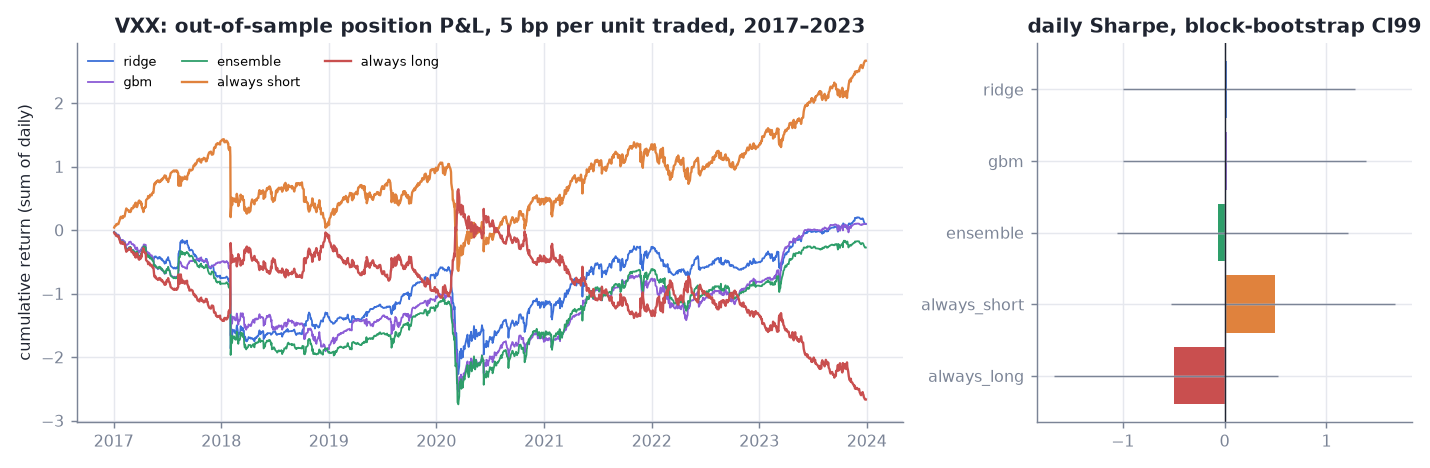
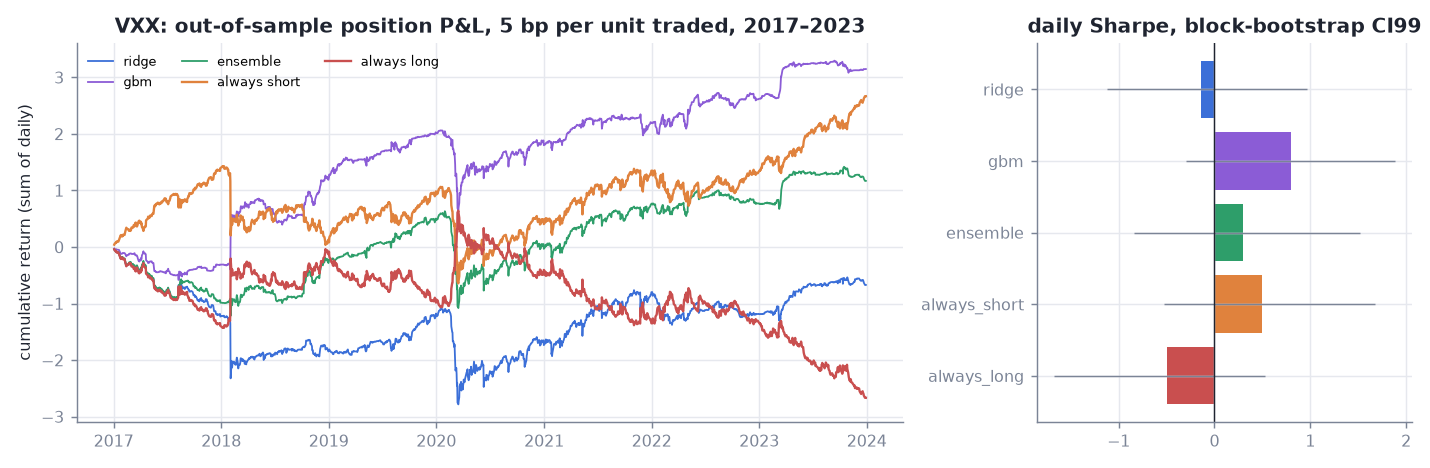
Deterministic reductions; concentration metrics; gallery: the regime question
- group_by returns groups in arbitrary order: IC means, selection scores and in-sample IC now sum in date order
  (a rerun of slalom's evaluation differed in the 15th digit)
- daily_stats: top5_share and sharpe_without_top5 (the few-observations red flag)
- gallery: VXX regime figure and section (futures-contango rule vs always short vs 1-day LightGBM)
- decisions: identity holes closed, ledger, rule learner, twins

diff --git a/examples/gallery/build.py b/examples/gallery/build.py
@@ -242,7 +242,46 @@ def vxx(store: ArtifactStore, home: Path) -> dict[str, Any]:
         "books": summary,
         "sweep": cells,
         "index_days": idx.height,
+        "regime": _vxx_regime(store, recs),
     }
+
+
+def _vxx_regime(store: ArtifactStore, recs: list[dict[str, Any]]) -> dict[str, Any]:
+    """Always short against the futures-contango rule and LightGBM on a 1-day target (the v4 evaluation)."""
+
+    def latest(h: int) -> dict[str, Any] | None:
+        for r in reversed(recs):
+            ev = r.get("results", {}).get("evaluate")
+            if ev and r["meta"].get("params", {}).get("horizon") == h:
+                out = store.get(ev["output"])
+                if "short_if_roll_yield_gt_0.0%" in out:
+                    return out
+        return None
+
+    e5, e1 = latest(5), latest(1)
+    if e5 is None or e1 is None:
+        return {}
+    lines = {
+        "always short": e5["always_short"],
+        "short if F2 > F1 (futures contango)": e5["short_if_roll_yield_gt_0.0%"],
+        "LightGBM, 1-day target": e1["gbm"],
+    }
+    colors = [VXX["always_short"], "#2e9e6a", "#8b5cd6"]
+    fig, ax = plt.subplots(2, 1, figsize=(11, 5.2), sharex=True, gridspec_kw={"height_ratios": [2, 1]})
+    for (name, st), c in zip(lines.items(), colors, strict=True):
+        d = pl.DataFrame(st["daily"]).with_columns(pl.col("date").str.to_date())
+        cum = np.cumsum(d["pnl"].to_numpy())
+        label = f"{name}: Sharpe {st['sharpe']:.2f}, max DD {st['max_drawdown']:.2f}"
+        ax[0].plot(d["date"], cum, color=c, lw=1.2, label=label)
+        ax[1].plot(d["date"], cum - np.maximum.accumulate(cum), color=c, lw=1.0)
+    ax[0].set_title("VXX: can regime conditioning beat always short? (2017–2023 OOS, 5 bp per unit traded)")
+    ax[0].legend(loc="upper left", fontsize=8)
+    ax[1].set_title("drawdown (cumulative return below its running peak)")
+    fig.tight_layout()
+    fig.savefig(FIG / "vxx_regime.png")
+    plt.close(fig)
+    keep = ("sharpe", "sharpe_ci", "max_drawdown", "vs_always_short")
+    return {name: {k: st[k] for k in keep} for name, st in lines.items()}
 
 
 def main() -> None:

diff --git a/src/chairlift/evaluate/daily.py b/src/chairlift/evaluate/daily.py
@@ -92,6 +92,10 @@ def daily_stats(x: np.ndarray, dates: Sequence[dt.date], s: DailyStatsSpec) -> d
         "by_year_sharpe": by_year,
         "years_pos": sum(v > 0 for v in by_year.values()),
         "n_years": len(by_year),
+        # the red flag "returns dominated by a few observations": the five best periods' share of the total, and the
+        # Sharpe once they are removed
+        "top5_share": float(np.sort(x)[-5:].sum() / cum[-1]) if n > 5 and cum[-1] != 0 else None,
+        "sharpe_without_top5": _sharpe(np.sort(x)[:-5], s.periods) if n > 10 else None,
         "by_halfyear_sharpe": by_half,
         "halfyears_pos": sum(v > 0 for v in by_half.values()),
         "n_halfyears": len(by_half),
@@ -120,7 +124,8 @@ def ic_by_year(
         frame.group_by(date, year)
         .agg(ic=pl.corr(pred, target, method="spearman"))
         .fill_nan(None)
-        .group_by(year)
+        .sort(date)  # group_by returns groups in arbitrary order: sort so every mean sums in date order
+        .group_by(year, maintain_order=True)
         .agg(pl.col("ic").mean())
         .sort(year)
     )

diff --git a/tests/evaluate/test_daily.py b/tests/evaluate/test_daily.py
@@ -81,3 +81,23 @@ def test_paired_difference_cancels_the_common_component():
     r = paired_sharpe_diff(a, b, DailyStatsSpec(n_boot=400, seed=2))
     assert r["d_sharpe"] > 0 and r["d_sharpe_ci"][0] > 0  # unpaired, these CIs would overlap entirely
     assert r["corr"] > 0.99
+
+
+def test_ic_by_year_is_bit_identical_across_calls():
+    rng = np.random.default_rng(0)
+    n = 40000
+    f = pl.DataFrame(
+        {"t0": rng.integers(0, 2000, n), "y_year": 0, "pred": rng.standard_normal(n), "y_rank": rng.random(n)}
+    )
+    f = f.with_columns(y_year=pl.col("t0") // 250)
+    first = ic_by_year(f)
+    assert all(ic_by_year(f) == first for _ in range(5))
+
+
+def test_concentration_flags_a_result_made_by_a_few_days():
+    dates = [dt.date(2018, 1, 1) + dt.timedelta(days=i) for i in range(500)]
+    rng = np.random.default_rng(4)
+    x = 0.01 * rng.standard_normal(500)
+    x[[10, 200, 300]] = 0.5  # three lucky days
+    st = daily_stats(x, dates, DailyStatsSpec(n_boot=100))
+    assert st["top5_share"] > 0.8 and st["sharpe_without_top5"] < st["sharpe"] / 2

diff --git a/src/chairlift/learn/fit.py b/src/chairlift/learn/fit.py
@@ -47,7 +47,11 @@ def in_sample_ic(frame: pl.DataFrame, pred: pl.Series, target: str, date: str, c
     if not cross_section:
         return float(frame.select(target).with_columns(p=pred).select(pl.corr("p", target, method="spearman")).item())
     by_day = (
-        frame.select(date, target).with_columns(p=pred).group_by(date).agg(ic=pl.corr("p", target, method="spearman"))
+        frame.select(date, target)
+        .with_columns(p=pred)
+        .group_by(date)
+        .agg(ic=pl.corr("p", target, method="spearman"))
+        .sort(date)  # a deterministic summation order for the mean
     )
     return _num(by_day.fill_nan(None)["ic"].mean())
 

diff --git a/src/chairlift/learn/selection.py b/src/chairlift/learn/selection.py
@@ -84,7 +84,8 @@ def score(R: pl.DataFrame, feature: str, target: str = "y_rank", date: str = "t0
         .agg(ic=pl.corr(feature, target, method="spearman"))
         .fill_nan(None)
         .drop_nulls("ic")
-        .group_by(year)
+        .sort(date)  # group_by returns groups in arbitrary order: sort so every mean sums in date order
+        .group_by(year, maintain_order=True)
         .agg(pl.col("ic").mean())
         .sort(year)["ic"]
         .to_numpy()

diff --git a/docs/decisions.md b/docs/decisions.md
@@ -216,3 +216,35 @@ Laurent: run slalom first against its full recorded result, then VXX, then a gal
 - **Gallery** in `examples/gallery/`: figures, tables and CLI transcripts from these runs, regenerated by `build.py`
   from run records. No data.
 
+## 2026-10-01 (later) — identity holes closed, the ledger, rules, twins
+
+Two bugs of one class, both silent stale outputs, both found by using chairlift on real studies:
+1. A stage lambda capturing a factory parameter (`fundamentals`) was not keyed on it: `fundamentals=peek` was
+   served the published panel.
+2. A same-module helper (`rule_choices`) was edited without a version bump: the edited stage was served its old output.
+
+The key now covers both:
+- **captured values:** closure cells and `functools.partial` arguments, canonicalised; an unhashable capture is an
+  error at build; `ignore=` names deliberate exclusions
+- **code digest:** the stage function's source plus every same-module function it reaches by name, transitively
+
+`version` remains for changes outside the study's module (chairlift, libraries) and for intent. Every stage re-keyed
+once.
+
+- **Determinism:** LightGBMSpec.deterministic (default) sets LightGBM's deterministic + col-wise. Run-to-run
+  bit-identical, and the slalom match is kept (candidate unchanged, G_nxy within 1.4e-14).
+- **Ledger** (`studies/<name>/ledger.jsonl`):
+  - one trial per signature, charged by `Pipeline.run`, with the headline read from the study's HEADLINE
+  - `chairlift ledger` reports the deflated Sharpe of the best trial
+  - `chairlift holdout open` records the one look (a reason is required, a second opening is refused)
+  - `guard()` / `with_holdout()` hide holdout rows, and opening re-keys every stage behind the gate
+- **Rule learner** (`RuleSpec`): a regime rule chosen in-fold by the position's own Sharpe. On VXX it found the
+  futures-slope rule from 2019 on, but not before the 2018 spike its training had not seen. Laurent: "if chairlift
+  can't find that on its own it needs work." The answer here is partial: the search finds the rule once history
+  contains the event.
+- **Frequency:** DailyStatsSpec has periods / min_per_year / min_per_half (monthly books).
+- **Twins** (`verify/twins.py`): planted-signal cross-section and time-series data. `examples/studies/equity_ls`
+  recovers the planted IC (0.050 OOS), shows the release-lag leak (+0.011 IC) and finds nothing on the null; the
+  SPY null twin does not beat buy-and-hold.
+- **Store** errors name the non-JSON path; NaN correlations become null.
+

diff --git a/examples/gallery/README.md b/examples/gallery/README.md
@@ -92,6 +92,32 @@ What VXX forced chairlift to change: a `cross_section=False` switch on the fit (
 ensemble scaled by training-fold moments (within-date z-scores are meaningless with one row; test-period z-scores leak),
 and a time-series IC. Folds, models, books and statistics ran unchanged.
 
+### Can regime conditioning beat always short?
+
+Laurent's challenge: surely "short when contango is steep" beats standing short, and if chairlift cannot find that it
+needs work. It did need work. Three additions, then the answer:
+- a regime-rule learner that searches feature × threshold × side in-fold by the position's own Sharpe
+- pre-specified rules on the futures roll yield
+- a 1-day target
+
+![regime](figures/vxx_regime.png)
+
+| 2017–2023 OOS, 5 bp | Sharpe [CI99] | max DD | ΔSharpe vs always short [CI99] | Sharpe without its 5 best days |
+|---|---|---|---|---|
+| always short | 0.50 [−0.53, 1.68] | −2.07 | | 0.34 |
+| **short if F2 > F1** (futures contango, pre-specified) | **0.71** [−0.39, 1.79] | **−1.13** | +0.21 [−0.59, 1.08] | **0.57** |
+| LightGBM, 1-day target | 0.80 [−0.30, 1.89] | −1.41 | +0.30 [−1.00, 1.50] | 0.50 |
+| regime-rule learner, searched in-fold | 0.15 [−0.68, 1.42] | −1.58 | −0.35 [−1.15, 0.73] | |
+
+- **The intuition holds on the point estimates.** The plain futures-contango rule lifts Sharpe and halves the
+  drawdown. It keeps its edge when its best days are removed: the edge is losses avoided across many days.
+- **The 1-day model is one lucky trade.** It was long into 2018-02-02, and 47% of its P&L is five days.
+- **Nothing is established yet.** Every paired difference spans zero. The best of the 27 books examined has a
+  deflated Sharpe probability of 0.73 against the expected maximum of 27 null trials (0.56).
+- **The in-fold learner found the rule only from 2019**, once its training history contained a spike. Before that
+  it had no way to know.
+- **What decides it:** the sealed 2024+ holdout, one look, for a registered candidate.
+
 ### One command, six experiments
 
 ```bash
